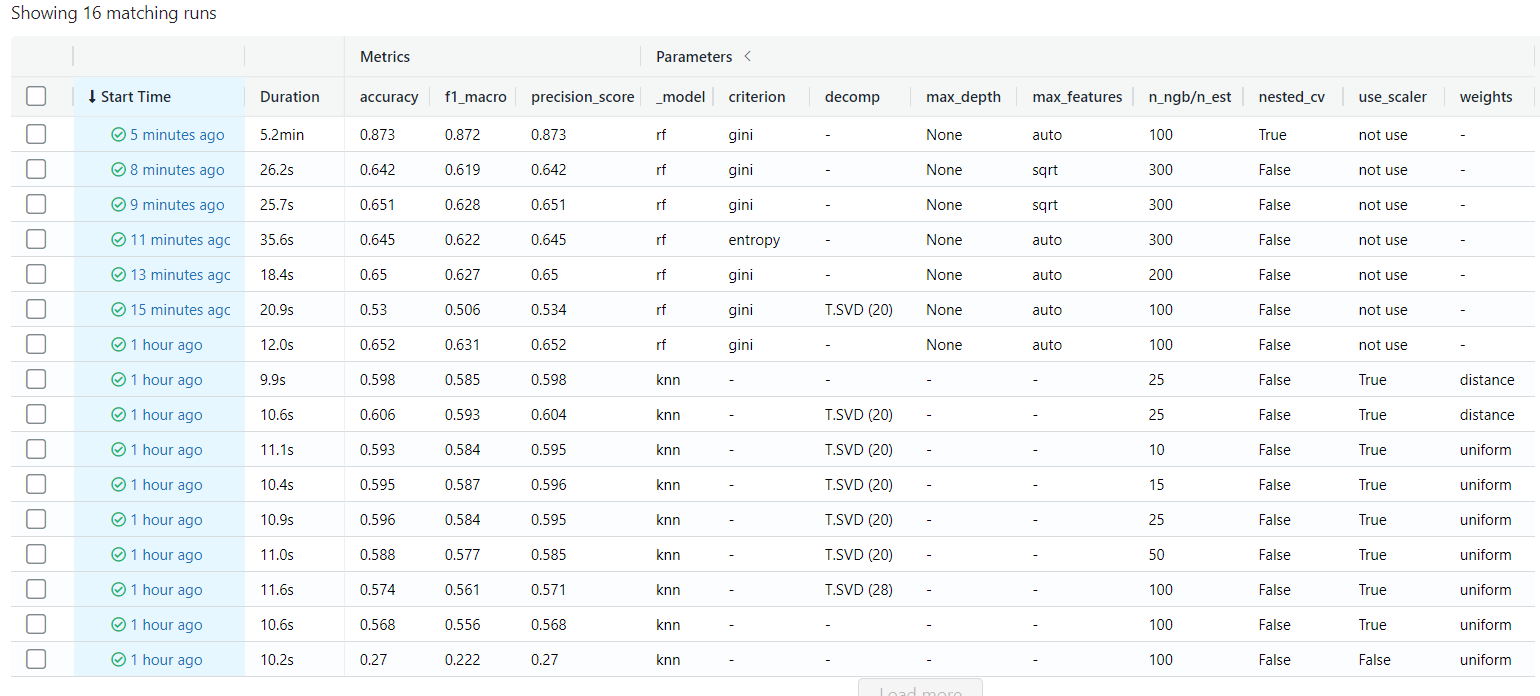
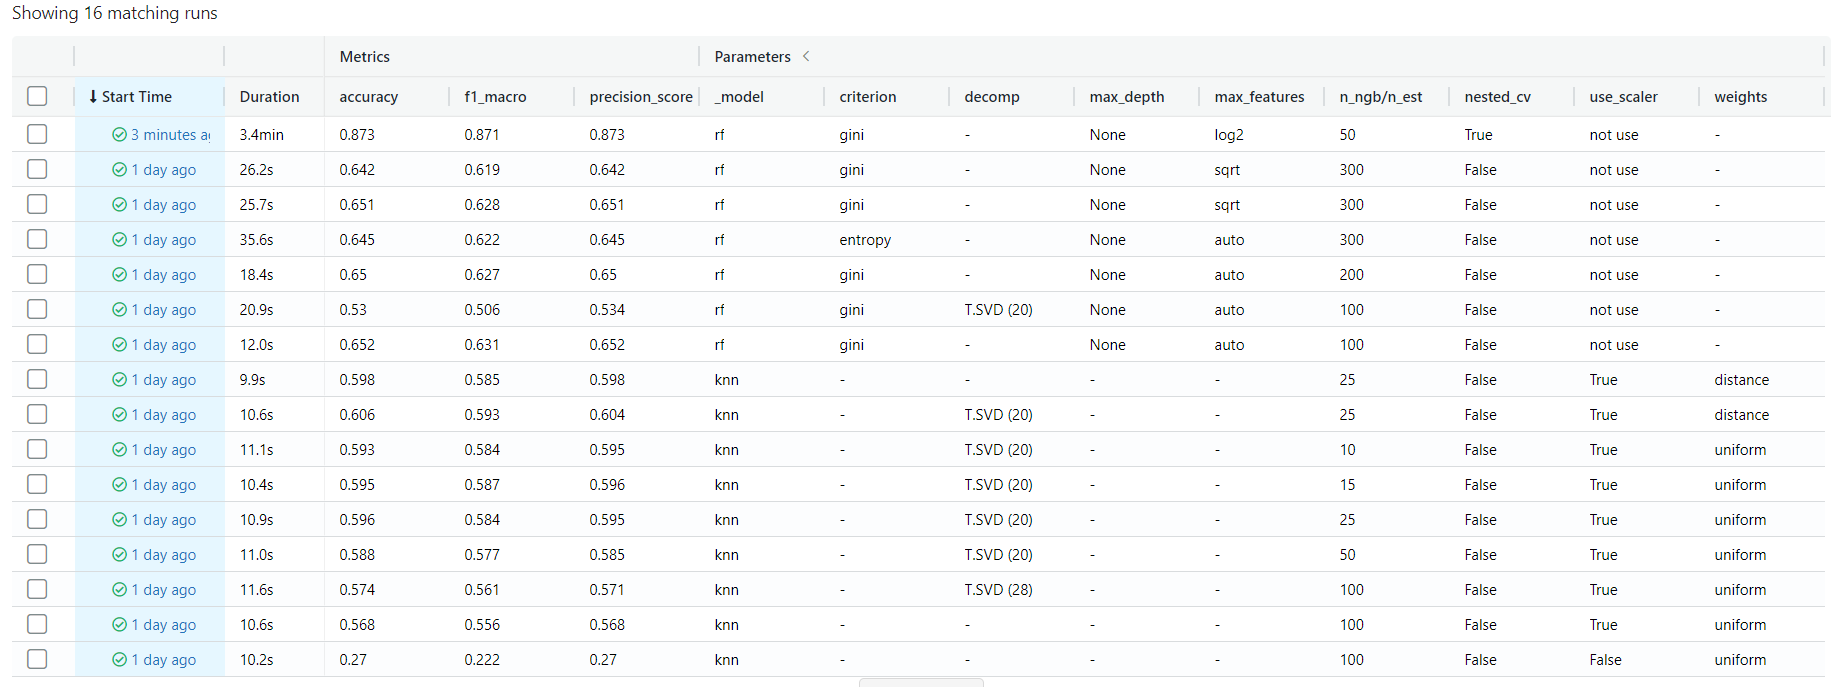
edit nestedCV

diff --git a/src/Forest_ml/train.py b/src/Forest_ml/train.py
@@ -88,7 +88,7 @@ from sklearn.model_selection import cross_val_score, cross_validate
 @click.option(
     "-n",
     "--n-estimators",
-    default=100,
+    default=50,
     help="n_estimators for RF / n_neighbors for KNN ",
     type=int,
     show_default=True,
@@ -96,7 +96,7 @@ from sklearn.model_selection import cross_val_score, cross_validate
 @click.option(
     "-c",
     "--criterion",
-    default="gini",
+    default="entropy",
     type=click.Choice(["gini", "entropy"]),
     show_default=True,
 )
@@ -200,7 +200,7 @@ def train(
             model = RandomForestClassifier(random_state=random_state)
             space: dict[str, Any] = dict() 
             
-            space["n_estimators"] = [50, 100, 250, 500]
+            space["n_estimators"] = [10, 25, 50, 100, 250]
             space["max_features"] = ["auto", "sqrt", "log2"]
             space["criterion"] = ["gini", "entropy"]
             search = GridSearchCV(
@@ -226,12 +226,13 @@ def train(
             scores_precision_score = scores["test_precision"]
             scores_f1_macro = scores["test_f1_score"]
             rf = GridSearchCV(model, space, scoring="accuracy", n_jobs=-1, refit=True)
-            rf_param = rf.get_params()
-            click.echo(f"Param: {rf_param}.")
+            #rf_param = rf.get_params()
+            rf.fit(features, target)
+            #click.echo(f"Param: {rf.best_params_}.")
 
-            max_features = rf_param.get("estimator__max_features")
-            n_estimators = rf_param.get("estimator__n_estimators")
-            criterion = rf_param.get("estimator__criterion")
+            max_features = rf.best_params_["max_features"]
+            n_estimators = rf.best_params_["n_estimators"]
+            criterion = rf.best_params_["criterion"]
 
             click.echo(f"n_estimators : {n_estimators}.")
             click.echo(f"max_features : {max_features}.")
